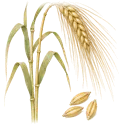
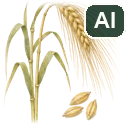
Crop plates carry a visible AI watermark, as the project's rules require

Changed region(s): [[0.625, 0.0312, 1.0, 0.3125]]

diff --git a/src/components/CropPlate.tsx b/src/components/CropPlate.tsx
@@ -1,7 +1,8 @@
 // A crop's botanical plate: a small painting of the plant with its seed or pod, on its own paper.
 // Used where there is room to see it (the three harvests, the advice, the last-crop question). Inside a sentence the
 // crop keeps its line icon (CropName), because a painting at text size is only a smudge.
-// The plates were made with AI (ChatGPT image generation) from a written brief, and are not photographs.
+// The plates were made with AI (ChatGPT image generation) from a written brief, and are not photographs. Each file
+// carries a visible "AI" badge (the project's rule: no AI-generated image without a visible watermark).
 // Written with AI assistance (Claude, Anthropic).
 import type { CropId } from "../data/types";
 

diff --git a/README.md b/README.md
@@ -357,7 +357,7 @@ A log of how AI was used during the competition, with what we asked it to do and
 - **AI coding and research tools** were used to build it: Claude (Opus for interface code and design, Sonnet for background research), OpenAI Codex (Sol, for audits), and Gemini (Hydrogen, for read-only reviews and for editing the app's wording in English and Italian over three passes, the last a rewrite of the Italian so it reads as a person's writing, which Claude then checked and applied; no native Italian speaker has read it), coordinated with a multi-agent tool called fleet.
 - **The data notebooks** in `ColabNotebooks/` were written with Claude (Anthropic) on claude.ai, as were their checks, `HANDOVER.md`, the data helper `src/data/fieldshift-data.js` and the code that turns the data into the app's figures. The data values come from the cited datasets, not from the AI, except a few published values from the trial at the demo field (its weather station's rain and temperature, and its soil), typed in from Denora et al. (2025) and labelled as such.
 - **Code in this repository** was largely written by these tools and reviewed by the team.
-- **No AI-generated images or video** are used without a visible watermark.
+- **No AI-generated images or video** are used without a visible watermark. The nine crop pictures (botanical plates in `public/crops/`) were drawn with ChatGPT image generation from a written brief; each file carries a visible "AI" badge.
 - **The app says so too.** A short version of this section, with the credit lines the data licences ask for, is on the "Data and credits" page, linked from Check and share, and on the printout (`src/components/DataCredits.tsx`).
 - **The app itself contains no AI model.** Options come from a written decision tree and ranking rules.
 - **Voice uses the phone, not us.** The app contains no hosted AI model and sends nothing to a server of ours. Its voice commands and "read aloud" use the browser's built-in speech recognition and speech synthesis, which the phone maker (Google, Apple, Samsung) provides; recognition may send the audio to the phone maker's servers. Spoken words become commands through a written list of phrases (`src/voice/commands.ts`), not a model.

diff --git a/docs/space-apps-submission.md b/docs/space-apps-submission.md
@@ -94,4 +94,4 @@ What AI tools did:
 - Google Gemini reviewed the code and edited the app's wording in English and Italian.
 - The data values come from the cited datasets, not from AI. The exception is a few published values from the trial at the demo field, typed in from the paper and labelled as such.
 - The app itself contains no AI model. Its options come from a written decision tree and ranking rules. Voice commands use the phone's built-in speech recognition and a written list of phrases.
-- No AI-generated images or video are used without a visible watermark.
+- No AI-generated images or video are used without a visible watermark. The nine crop pictures were drawn with ChatGPT image generation; each carries a visible "AI" badge.
